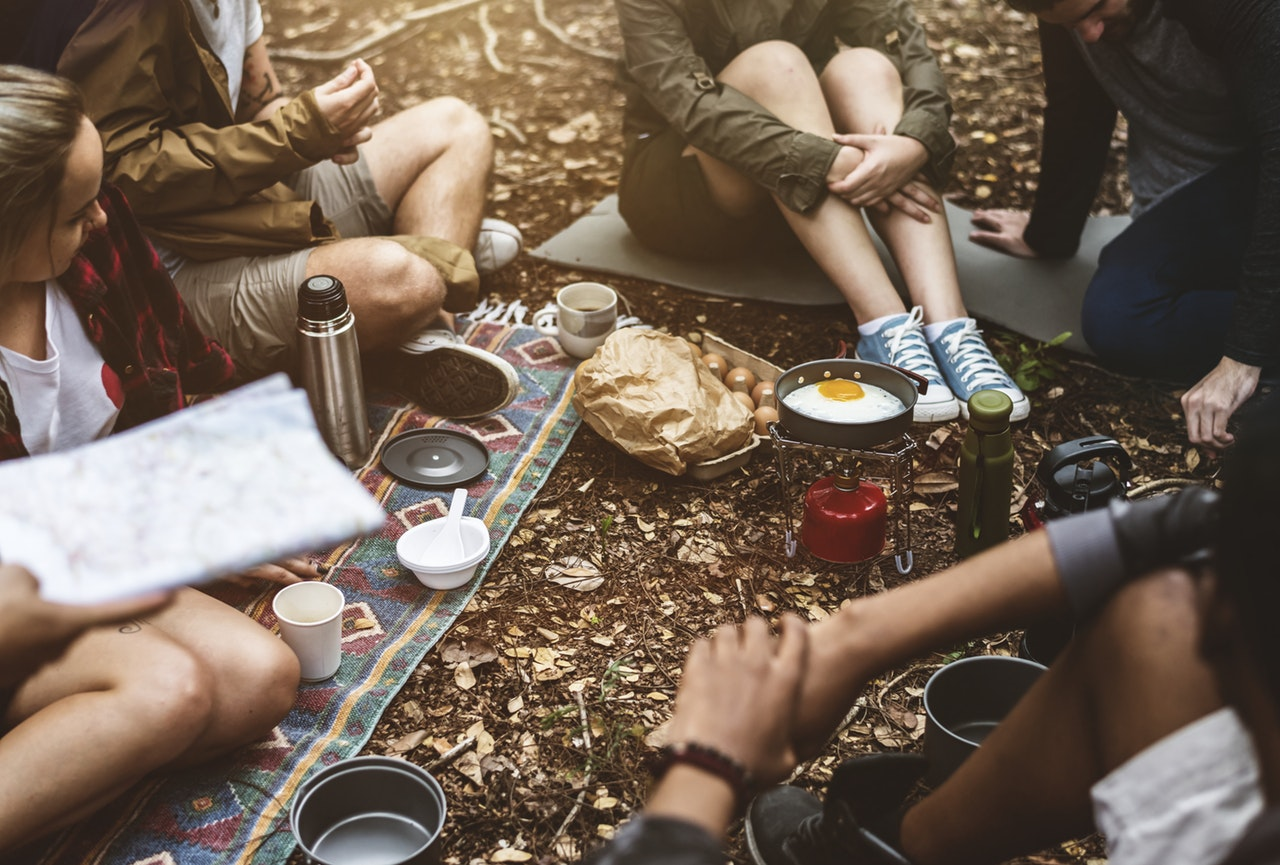
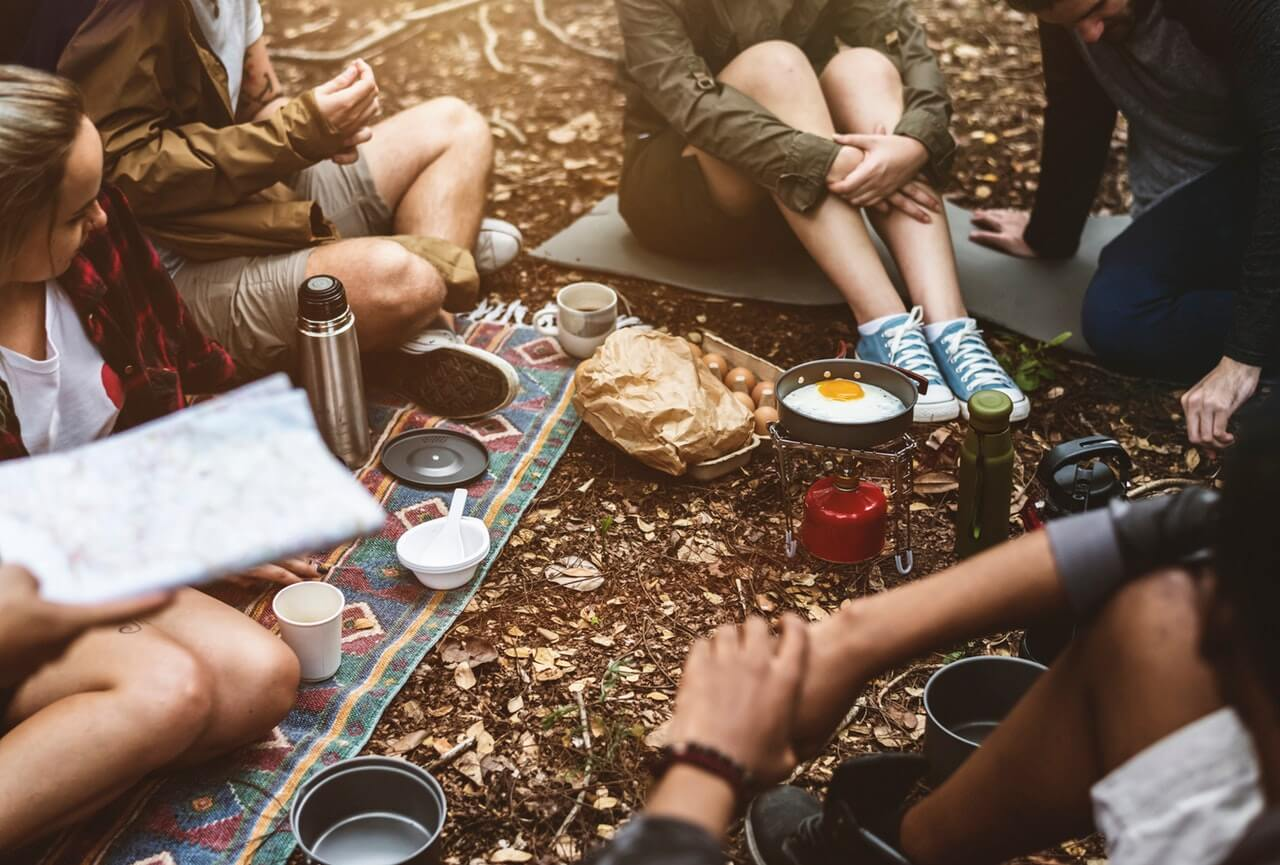
update - optimization of images

diff --git a/rideUp/index.html b/rideUp/index.html
@@ -99,7 +99,7 @@
                             <p class="text-center">аренда рыболовного снаряжения</p>
                         </div>
                         <div class="sel-bg">
-                            <img class="fishing-image" src="img/fishing.jpg" alt="background of skiing selector">
+                            <img class="fishing-image" src="img/fishing.jpeg" alt="background of skiing selector">
                         </div>
                     </a>
                 </div>

diff --git a/rideUp/fishing.html b/rideUp/fishing.html
@@ -104,7 +104,7 @@
                     </div>
                 </a>
                 <div class="section-bg">
-                    <img class="hold-image fishing-opacity-bg" src="img/fishing.jpg" alt="background of skiing selector">
+                    <img class="hold-image fishing-opacity-bg" src="img/fishing.jpeg" alt="background of skiing selector">
                 </div>
             </div>
         </div>
